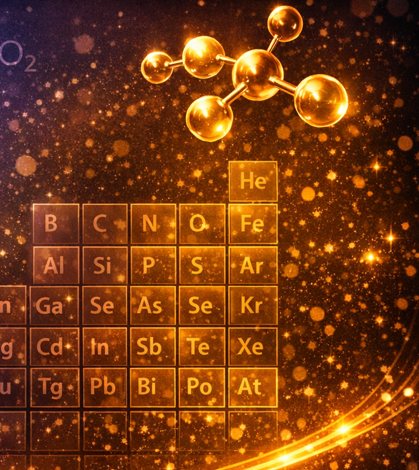
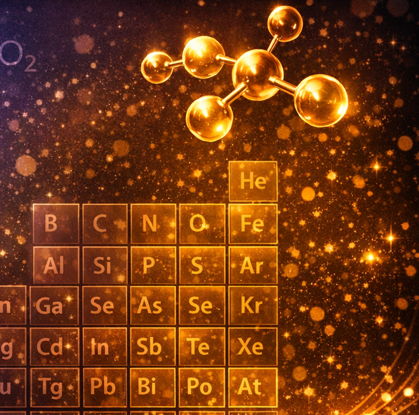
new updates

diff --git a/index.html b/index.html
@@ -475,6 +475,7 @@
           </div>
         </div>-->
 
+        <!--
         <div class="col-lg-4" style="padding-top: 20px;">
             <div class="thumbnail">
               <div class="card">
@@ -486,10 +487,7 @@
                 </div>
               </div>
             </div>
-        </div>
-      </div>
-
-      <div class="row">
+        </div>-->
 
         <div class="col-lg-4" style="padding-top: 20px;">
           <div class="thumbnail">
@@ -503,6 +501,10 @@
             </div>
           </div>
         </div>
+
+      </div>
+
+      <div class="row">
 
        <!--<div class="col-lg-4" style="padding-top: 20px;">
           <div class="thumbnail">
@@ -573,9 +575,22 @@
               <img class="card-img-top" src="contents/MasjidThumbnail.png" alt="Card image cap">
               <div class="card-body">
                 <h5 class="card-title" style="color: #000205;"><b>Islamic Centers in Wisconsin</b></h5>
-                <p class="card-text">This map shows estimated depth-to-bedrock in the state of Wisconsin.</p>
+                <p class="card-text">This map shows all Islamic centers in the state of Wisconsin.</p>
                 <a href="masjids.html" target="_blank" class="btn btn-primary">Read
                   More</a>
+              </div>
+            </div>
+          </div>
+        </div>
+
+        <div class="col-lg-4" style="padding-top: 20px;">
+          <div class="thumbnail">
+            <div class="card">
+              <img class="card-img-top" src="contents/MortarCalculator.PNG" alt="Card image cap">
+              <div class="card-body">
+                <h5 class="card-title" style="color: #000205;"><b>Build Cost Estimator</b></h5>
+                <p class="card-text">Estimate material quantities and construction costs, using this Calculator</p>
+                <a href="https://mapsandmathacademy.com/ConcreteMortar/" target="_blank" class="btn btn-primary">Read More</a>
               </div>
             </div>
           </div>
@@ -583,18 +598,7 @@
       </div>
 
       <div class="row">
-        <div class="col-lg-4" style="padding-top: 20px;">
-          <div class="thumbnail">
-            <div class="card">
-              <img class="card-img-top" src="contents/MortarCalculator.PNG" alt="Card image cap">
-              <div class="card-body">
-                <h5 class="card-title" style="color: #000205;"><b>Mortar Calculator</b></h5>
-                <p class="card-text">This calculator aids civil engineers in determining the amount of steel, cement, sand, and aggregate.</p>
-                <a href="https://mapsandmathacademy.com/ConcreteMortar/" target="_blank" class="btn btn-primary">Read More</a>
-              </div>
-            </div>
-          </div>
-        </div>
+      
 
         <!--<div class="col-lg-4" style="padding-top: 20px;" >
             <div class="thumbnail">
@@ -637,9 +641,6 @@
           </div>
         </div>
 
-      </div>
-
-      <div class="row">
         <div class="col-lg-4" style="padding-top: 20px;">
           <div class="thumbnail">
             <div class="card">
@@ -654,6 +655,11 @@
             </div>
           </div>
         </div> 
+
+      </div>
+
+      <div class="row">
+
                <div class="col-lg-4" style="padding-top: 20px;">
           <div class="thumbnail">
             <div class="card">